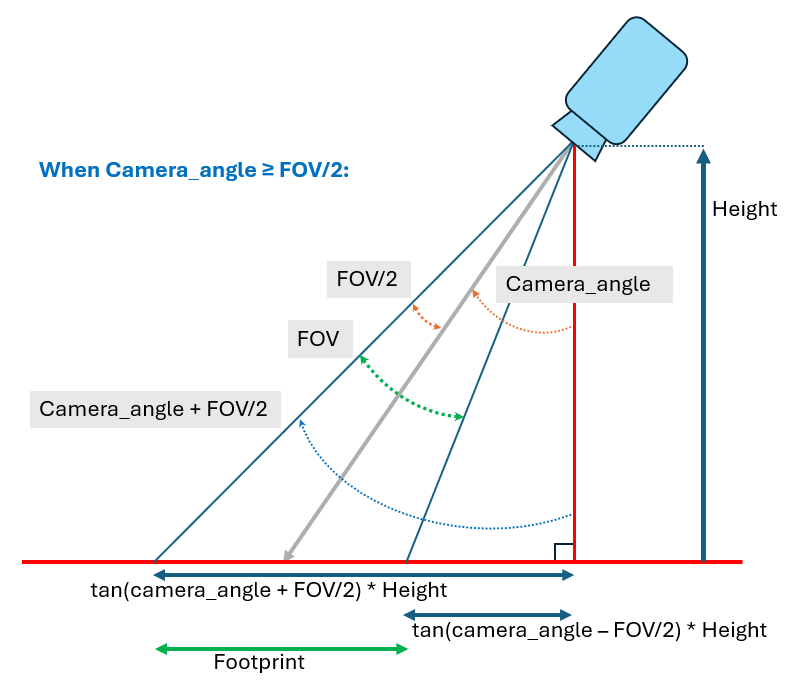
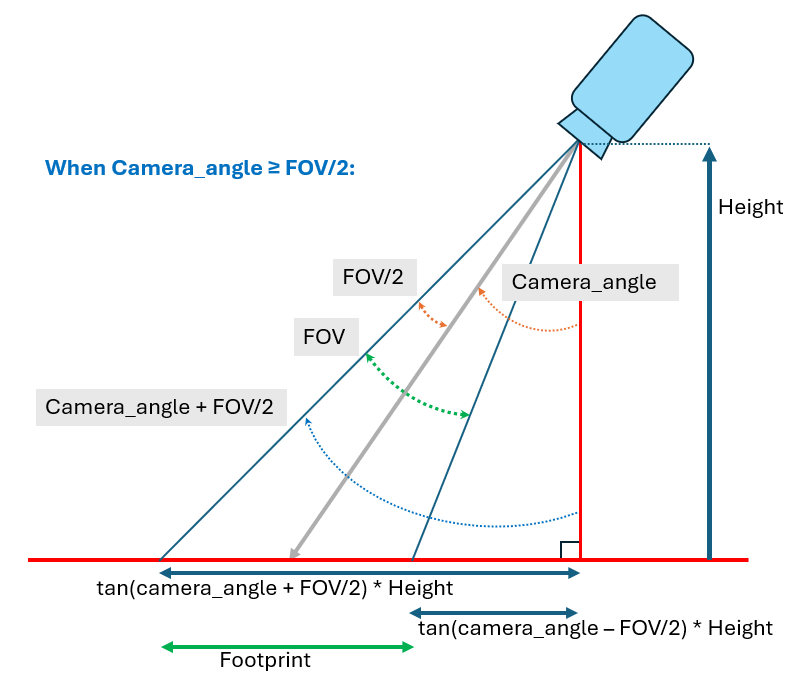
added comment and adjusted diagrams
- added comments for the data models from the notebook.
- minor adjustment for the diagrams.

diff --git a/src/data_model.py b/src/data_model.py
@@ -10,6 +10,14 @@ class Camera:
     - https://github.com/colmap/colmap/blob/3f75f71310fdec803ab06be84a16cee5032d8e0d/src/colmap/sensor/models.h#L220
     - https://en.wikipedia.org/wiki/Pinhole_camera_model
     """
+    # fx: focal length along x axis (in pixels)
+    # fy: focal length along y axis (in pixels)
+    # cx: optical center of the image along the x axis (in pixels)
+    # cy: optical center of the image along the y axis (in pixels)
+    # sensor_size_x_mm: Size of the sensor along the x axis (in mm)
+    # sensor_size_y_mm: Size of the sensor along the y axis (in mm)
+    # image_size_x_px: Number of pixels in the image along the x axis
+    # image_size_y_px: Number of pixels in the image along the y axis
     fx: float
     fy: float
     cx: float
@@ -25,6 +33,12 @@ class DatasetSpec:
     """
     Data model for specifications of an image dataset.
     """
+    # overlap: the ratio (in 0 to 1) of scene shared between two consecutive images.
+    # sidelap: the ratio (in 0 to 1) of scene shared between two images in adjacent rows.
+    # height: the height of the scan above the ground (in meters).
+    # scan_dimension_x: the horizontal size of the rectangle to be scanned
+    # scan_dimension_y: the vertical size of the rectangle to be scanned
+    # exposure_time_ms: the exposure time for each image (in milliseconds).
     overlap: float
     sidelap: float
     height: float
